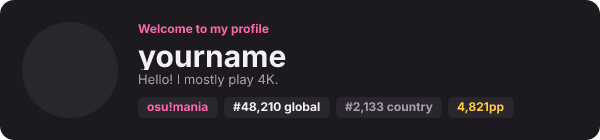
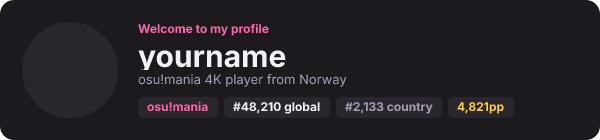
Add Last.fm music strip, default tagline, bio layout docs
Claude-Session: https://claude.ai/code/session_016qJzmhVBrTjowFWJeqNjMG

Changed region(s): [[0.21, 0.5143, 0.6, 0.6286]]

diff --git a/server.js b/server.js
@@ -1,7 +1,8 @@
 import http from 'node:http';
-import { renderCard, renderHeader } from './card.js';
+import { renderCard, renderHeader, renderMusic, ago } from './card.js';
 
-const { OSU_CLIENT_ID, OSU_CLIENT_SECRET, OSU_USER, PUSH_TOKEN, PORT = 3000, MOCK, TAGLINE } = process.env;
+const { OSU_CLIENT_ID, OSU_CLIENT_SECRET, OSU_USER, PUSH_TOKEN, PORT = 3000, MOCK, LASTFM_USER, LASTFM_KEY } = process.env;
+const TAGLINE = process.env.TAGLINE || 'osu!mania 4K player from Norway';
 const LIVE_TTL = 20_000; // helper pushes every few seconds; older than this = game closed
 
 let live = null; // { at, data }
@@ -66,6 +67,19 @@ async function getAvatar(id) {
   });
 }
 
+async function getMusic() {
+  if (MOCK) return { playing: true, title: 'Midnight Static', artist: 'Fictional Artist' };
+  if (!LASTFM_USER || !LASTFM_KEY) return {};
+  return memo('music', 20_000, async () => {
+    const r = await fetch(`https://ws.audioscrobbler.com/2.0/?method=user.getrecenttracks&user=${encodeURIComponent(LASTFM_USER)}&api_key=${LASTFM_KEY}&format=json&limit=1`);
+    if (!r.ok) throw new Error(`lastfm ${r.status}`);
+    const t = [].concat((await r.json()).recenttracks?.track || [])[0];
+    if (!t) return {};
+    const playing = t['@attr']?.nowplaying === 'true';
+    return { playing, title: t.name, artist: t.artist?.['#text'], when: !playing && t.date?.uts ? ago(new Date(t.date.uts * 1000).toISOString()) : '' };
+  });
+}
+
 async function buildState() {
   const user = (await getUser()) || {};
   const d = live && Date.now() - live.at < LIVE_TTL ? live.data : null;
@@ -92,6 +106,10 @@ http
         const user = (await getUser()) || {};
         const png = await renderHeader({ user, avatar: await getAvatar(user.id), tagline: TAGLINE });
         return res.writeHead(200, { 'content-type': 'image/png', 'cache-control': 'public, max-age=300' }).end(png);
+      }
+      if (url.pathname === '/music.png') {
+        const png = await renderMusic((await getMusic()) || {});
+        return res.writeHead(200, { 'content-type': 'image/png', 'cache-control': 'public, max-age=10' }).end(png);
       }
       res.writeHead(200, { 'content-type': 'text/plain' }).end('osu nowplaying: /card.png');
     } catch (e) {

diff --git a/card.js b/card.js
@@ -99,3 +99,17 @@ export async function renderHeader({ user = {}, avatar, tagline }) {
   const svg = await satori(tree, { width: W, height: 140, fonts });
   return new Resvg(svg, { fitTo: { mode: 'width', value: W } }).render().asPng();
 }
+
+// s: { playing, title, artist, when }  (title empty = nothing known)
+export async function renderMusic({ playing, title, artist, when }) {
+  const bar = (hgt) => h('div', { width: 3, height: hgt, borderRadius: 2, background: playing ? C.green : C.gray, marginRight: 2 });
+  const text = !title ? 'No music data yet' : `${playing ? 'Listening to' : 'Last listened'}  ${title} - ${artist}${!playing && when ? '  (' + when + ')' : ''}`;
+  const tree = h(
+    'div',
+    { width: W, height: 34, boxSizing: 'border-box', background: C.bg, borderRadius: 10, padding: '0 14px', fontFamily: 'Inter', color: C.dim, alignItems: 'center' },
+    h('div', { alignItems: 'flex-end', height: 12, marginRight: 10 }, bar(6), bar(12), bar(8)),
+    txt(text, { fontSize: 12, flex: 1, minWidth: 0 })
+  );
+  const svg = await satori(tree, { width: W, height: 34, fonts });
+  return new Resvg(svg, { fitTo: { mode: 'width', value: W } }).render().asPng();
+}

diff --git a/test.js b/test.js
@@ -1,4 +1,4 @@
-import { renderCard, renderHeader } from './card.js';
+import { renderCard, renderHeader, renderMusic } from './card.js';
 import { writeFileSync } from 'node:fs';
 
 const user = { name: 'yourname', pp: 4821, rank: 48210, countryRank: 2133 };
@@ -9,5 +9,7 @@ const cases = {
   offline: { mode: 'offline', user, lastSeen: new Date(Date.now() - 3 * 3600e3).toISOString(), lastPlayed: { title: 'Midnight Static', artist: 'Fictional Artist', version: 'Insane' } },
 };
 for (const [k, v] of Object.entries(cases)) writeFileSync(`samples/${k}.png`, await renderCard(v));
-writeFileSync('samples/header.png', await renderHeader({ user: { ...user, playmode: 'mania' }, tagline: 'Hello! I mostly play 4K.' }));
+writeFileSync('samples/header.png', await renderHeader({ user: { ...user, playmode: 'mania' }, tagline: 'osu!mania 4K player from Norway' }));
+writeFileSync('samples/music-playing.png', await renderMusic({ playing: true, title: 'Midnight Static', artist: 'Fictional Artist' }));
+writeFileSync('samples/music-last.png', await renderMusic({ playing: false, title: 'Midnight Static', artist: 'Fictional Artist', when: '2 h ago' }));
 console.log('ok');

diff --git a/README.md b/README.md
@@ -28,3 +28,14 @@ printed JSON with the field names in the `map()` function in helper.js.
 Notes: osu! proxies bio images and may cache them, so expect some delay. Free hosts can sleep when idle,
 so the first load after a quiet period may be slow. Cards are latin-font only (romanised titles).
 Preview locally with `node test.js` (writes samples/*.png).
+
+## Full bio layout
+Extra environment variables on the server:
+- TAGLINE  (optional, shown under your name; default "osu!mania 4K player from Norway")
+- LASTFM_USER, LASTFM_KEY  (for the tiny music strip; free key at https://www.last.fm/api/account/create)
+
+Routes: /header.png (welcome banner), /card.png (now playing), /music.png (music strip).
+
+    [centre][img]https://YOUR-APP/header.png[/img]
+    [img]https://YOUR-APP/card.png[/img]
+    [img]https://YOUR-APP/music.png[/img][/centre]
